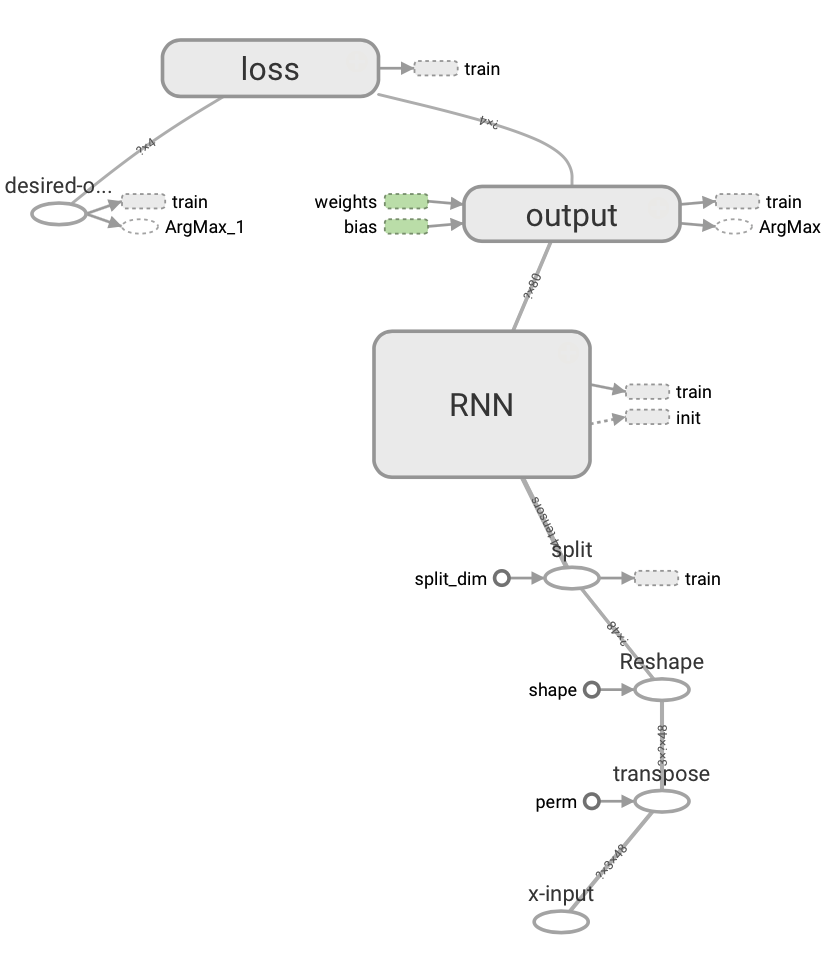
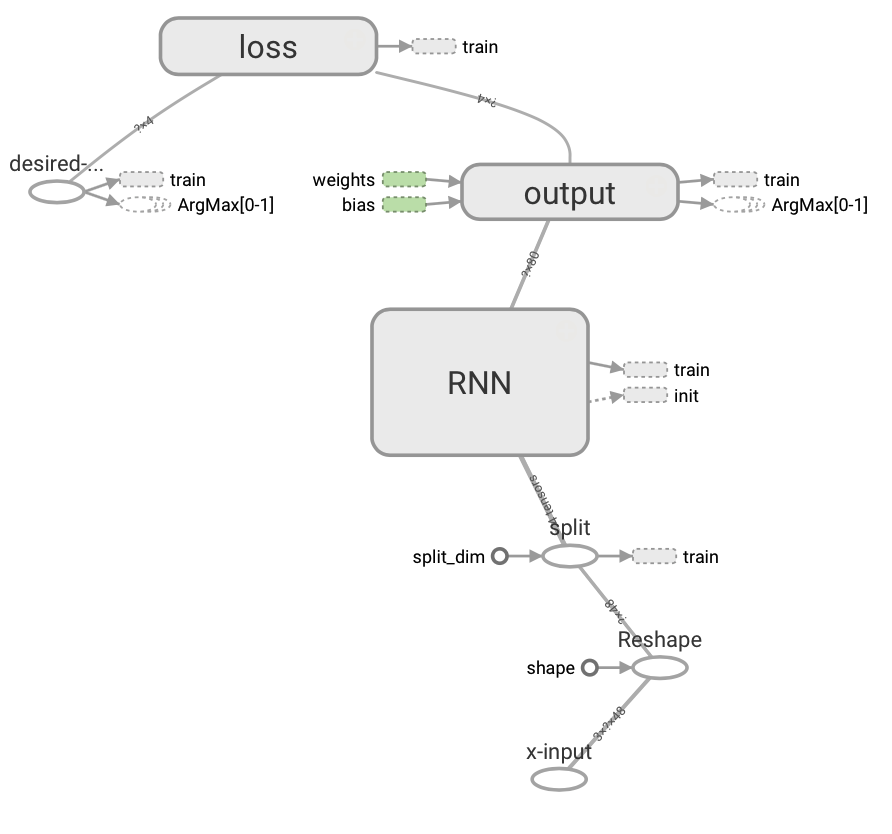
Update experiment readmes and add details to the RNN readme

Changed region(s): [[0.3623, 0.1559, 0.9964, 0.9976], [0.0, 0.0, 0.6039, 0.2806], [0.5737, 0.1247, 0.6643, 0.1559]]

diff --git a/experiments/rnn-gridworld/rnn-gridworld.py b/experiments/rnn-gridworld/rnn-gridworld.py
@@ -19,7 +19,7 @@ flags.DEFINE_float('final_epsilon', 0.1, 'Final epsilon value that epsilon will 
 # Network settings
 flags.DEFINE_integer('hidden', 80, 'Number of hidden neurons in each RNN layer.')
 flags.DEFINE_integer('rnn_layers', 2, 'Number of RNN layers.')
-flags.DEFINE_integer('timesteps', 3, 'Unfolded RNN sequence length.')
+flags.DEFINE_integer('sequence_length', 3, 'Unfolded RNN sequence length.')
 
 # Training settings
 flags.DEFINE_float('learning_rate', 0.001, 'Learning rate of the optimizer.')
@@ -33,7 +33,7 @@ flags.DEFINE_boolean('use_gpu', False, 'If it should run on GPU rather than CPU.
 flags.DEFINE_integer('random_seed', 123, 'Sets the random seed.')
 
 # Testing settings
-flags.DEFINE_boolean('run_test', True, 'If the final model should be tested')
+flags.DEFINE_boolean('run_test', True, 'If the final model should be tested.')
 flags.DEFINE_integer('test_runs', 100, 'Number of times to run the test.')
 flags.DEFINE_float('test_epsilon', 0.1, 'Epsilon to use on test run.')
 flags.DEFINE_integer('test_step_limit', 1000, 'Limits the number of steps in test to avoid badly performing agents running forever.')
@@ -52,23 +52,22 @@ else:
 input_size = 3 * settings.field_size * settings.field_size
 
 # Input
-x = tf.placeholder(tf.float32, shape=[None, settings.timesteps, input_size], name='x-input')
+x = tf.placeholder(tf.float32, shape=[settings.sequence_length, None, input_size], name='x-input')
 # Output
 y_ = tf.placeholder(tf.float32, shape=[None, 4], name='desired-output')
 
-W = tf.Variable(tf.random_uniform([settings.hidden, 4]))
-b = tf.Variable(tf.random_uniform([4]))
+W = tf.Variable(tf.random_uniform([settings.hidden, 4]), name='weights')
+b = tf.Variable(tf.random_uniform([4]), name='bias')
 
 def setup_rnn(x, weights, biases):
     with tf.device(device):
-        x_1 = tf.transpose(x, [1, 0, 2])
-        x_2 = tf.reshape(x_1, [-1, input_size])
-        x_3 = tf.split(0, settings.timesteps, x_2)
+        x_1 = tf.reshape(x, [-1, input_size])
+        x_2 = tf.split(0, settings.sequence_length, x_1)
 
         lstm_cell = tf.nn.rnn_cell.BasicLSTMCell(settings.hidden, forget_bias=1.0, state_is_tuple=True)
         lstm_cell = tf.nn.rnn_cell.MultiRNNCell([lstm_cell] * settings.rnn_layers, state_is_tuple=True)
 
-        outputs, state = tf.nn.rnn(lstm_cell, x_3, dtype=tf.float32)
+        outputs, state = tf.nn.rnn(lstm_cell, x_2, dtype=tf.float32)
 
         with tf.name_scope('output') as scope:
             y = tf.matmul(outputs[-1], W) + b
@@ -99,8 +98,8 @@ correct_prediction = tf.equal(tf.argmax(y,1), tf.argmax(y_,1))
 accuracy = tf.reduce_mean(tf.cast(correct_prediction, tf.float32))
 
 # Statistics summary writer
-summary_dir = '../../logs/gridworld-rnn-fieldsize{}-episodes{}-timesteps{}-rnnlayers{}-hidden{}-lr{}-{}/'.format(settings.field_size,
-    settings.episodes, settings.timesteps, settings.rnn_layers, settings.hidden, settings.learning_rate, settings.optimizer)
+summary_dir = '../../logs/rnn-gridworld-fieldsize{}-episodes{}-sequence{}-rnnlayers{}-hidden{}-lr{}-{}/'.format(settings.field_size,
+    settings.episodes, settings.sequence_length, settings.rnn_layers, settings.hidden, settings.learning_rate, settings.optimizer)
 summary_writer = tf.summary.FileWriter(summary_dir, sess.graph)
 stats = Stats(sess, summary_writer, 4)
 
@@ -110,7 +109,7 @@ epsilon = settings.initial_epsilon
 while settings.episodes > episode:
 	# Prepare environment for playing
     state = env.reset()
-    states = np.full((settings.timesteps, 1, input_size), state.reshape(1, input_size))
+    states = np.full((settings.sequence_length, 1, input_size), state.reshape(1, input_size))
 
     # Reset or increment values
     terminal = False
@@ -125,7 +124,7 @@ while settings.episodes > episode:
     while not terminal and step < settings.train_step_limit: 
         step += 1
         # Get the Q-values of the current state
-        q_values = sess.run(y, feed_dict={x: states.reshape(1,settings.timesteps, input_size)})
+        q_values = sess.run(y, feed_dict={x: states})
 
         # Save max(Q(s,a)) for stats
         q_max = np.max(q_values)
@@ -157,7 +156,7 @@ while settings.episodes > episode:
         new_states = np.stack(new_states_tuple)
 
        	# Get the new state's Q-values
-        q_values_new = sess.run(y, feed_dict={x: new_states.reshape(1, settings.timesteps, input_size)})
+        q_values_new = sess.run(y, feed_dict={x: new_states})
         # Get max(Q(s',a')) to update Q(s,a)
         q_max_new = np.max(q_values_new)
 
@@ -173,11 +172,11 @@ while settings.episodes > episode:
 
         # Run training
         _, loss = sess.run([train_step, obj_function],
-                    feed_dict={x: states.reshape(1,settings.timesteps, input_size),
+                    feed_dict={x: states,
                             y_: q_values})
 
         # Calculate accuracy
-        acc = sess.run(accuracy, feed_dict={x: states.reshape(1,settings.timesteps, input_size),
+        acc = sess.run(accuracy, feed_dict={x: states,
                                             y_: q_values})
 
         # Set the current state to the new state
@@ -211,7 +210,7 @@ if settings.run_test:
     rewards = []
     for n in range(settings.test_runs):
         state = env.reset()  
-        states = np.full((settings.timesteps, 1, input_size), state.reshape(1, input_size))      
+        states = np.full((settings.sequence_length, 1, input_size), state.reshape(1, input_size))      
         terminal = False
         step = 0
         q_max_arr = []
@@ -221,7 +220,7 @@ if settings.run_test:
         while not terminal and step < settings.test_step_limit: 
             step += 1
             
-            q_values = sess.run(y, feed_dict={x: states.reshape(1, settings.timesteps, input_size)})
+            q_values = sess.run(y, feed_dict={x: states})
             q_max = np.max(q_values)
 
             if (np.random.random() < settings.test_epsilon): 

diff --git a/experiments/nn-gridworld/nn-gridworld.py b/experiments/nn-gridworld/nn-gridworld.py
@@ -104,7 +104,7 @@ correct_prediction = tf.equal(tf.argmax(y,1), tf.argmax(y_,1))
 accuracy = tf.reduce_mean(tf.cast(correct_prediction, tf.float32))
 
 # Statistics summary writer
-summary_dir = '../../logs/gridworld-nn-fieldsize{}-episodes{}-hidden1_{}-hidden2_{}-lr{}-{}/'.format(settings.field_size,
+summary_dir = '../../logs/nn-gridworld-fieldsize{}-episodes{}-hidden1_{}-hidden2_{}-lr{}-{}/'.format(settings.field_size,
     settings.episodes, settings.hidden_l1, settings.hidden_l2, settings.learning_rate, settings.optimizer)
 summary_writer = tf.summary.FileWriter(summary_dir, sess.graph)
 stats = Stats(sess, summary_writer, 4)

diff --git a/experiments/q-gridworld/q-gridworld.py b/experiments/q-gridworld/q-gridworld.py
@@ -66,7 +66,7 @@ while settings.episodes > episode:
 
         # Anneal epsilon
         if epsilon > settings.final_epsilon: 
-            epsilon = settings.initial_epsilon - (3*episode / float(settings.episodes))
+            epsilon = settings.initial_epsilon - (2*episode / float(settings.episodes))
         else: 
             # Final epsilon reached, stop annealing.
             epsilon = settings.final_epsilon

diff --git a/experiments/rnn-gridworld/README.md b/experiments/rnn-gridworld/README.md
@@ -5,21 +5,92 @@
 </p>
 
 
+## Parameters
+The customizable parameters of this experiment - and their default values - are as follows:
+#### Q Learning settings
+* ```episodes ``` - ```100``` -  Number of minibatches to run the training on. 
+* ```gamma``` -  ```0.99```- Discount (ɣ) to use when Q-value is updated. 
+* ```initial_epsilon``` - ```1.0``` - Initial epsilon value that epsilon will be annealed from. 
+* ```final_epsilon``` - ```0.1``` - Final epsilon value that epsilon will be annealed to. 
+
+#### Network settings
+* ```hidden``` -  ```80``` -  Number of hidden neurons in each RNN layer..
+* ```rnn_layers``` - ```2``` - Number of RNN layers.
+* ```sequence_length``` - ```3``` - Unfolded RNN sequence length.
+
+#### Training settings
+* ```learning_rate``` - ```0.001``` - Learning rate of the optimizer.
+* ```optimizer``` -  ```rmsprop``` -  If another optimizer should be used [adam, gradientdescent, rmsprop]. Defaults to gradient descent.
+* ```train_step_limit``` - ```300``` -  Limits the number of steps in training to avoid badly performing agents running forever.
+
+#### General settings
+* ```field_size``` -  ```4``` - Determines width and height of the Gridworld field.
+* ```status_update``` -  ```10``` - How often to print an status update.
+* ```use_gpu``` -  ```False``` - If it should run on GPU rather than CPU.
+* ```random_seed``` - ```123``` -  Number of minibatches to run the training on.
+
+#### Testing settings
+* ```run_test``` - ```True``` - If the final model should be tested.
+* ```test_runs``` - ```100``` - Number of times to run the test.
+* ```test_epsilon``` - ```0.1``` - Epsilon to use on test run.
+* ```test_step_limit``` - ```1000``` -  Limits the number of steps in test to avoid badly performing agents running forever.
+
+
 ## Network 
 The network in this experiment has a customizable number of hidden layers and customizable numbers of LSTM-cells in each hidden layer.
 
 ```
-input_size = 3*field_size*field_size
+input_size = 3 * field_size * field_size
 action_size = 4 (up, down, left, right)
 ```
 
 
-| Input          | Hidden Layers| Cells/Layer | Timesteps | Output          |
-|----------------|--------------|-------------|-----------|-----------------|
-|```input_size```| 2 [C]        |80 [C]       |  3 [C]    |```action_size```|
+| Input          | Hidden Layers| Cells/Layer | Sequence length | Output          |
+|:--------------:|:------------:|:-----------:|:---------------:|:---------------:|
+|```input_size```| 2 [C]        |80 [C]       |  3 [C]          |```action_size```|
 
 [C] - Customizable
 
 ## Performance
 
+<p align="center">
+  <img src="../../images/plots/rnn-gridworld-plot1.png", width="70%"/>
+  <img src="../../images/plots/rnn-gridworld-plot2.png", width="70%"/>
+</p>
+
+The plots above show the agents training progress running with all parameters set to their default values.
+
+As you can see in the plot, something happend to the performance of the agent just after 600 episodes. From that point and beyond, it really got the gist of it and performed really well thereafter. The result of running 100 test runs with the fully trained agent can be seen in the table below.
+
+### Comparing NN-Gridworld with RNN-Gridworld
+
+So how does [NN-Gridworld](../nn-gridworld) and RNN-Gridworld stand against each other?
+To test this, I had both networks run on a 10x10 grid (```field_size = 10```), meaning that the input vector to the network now was ```3 * 10 * 10 ⟶ [1, 300]```, which is really large. However, the RNN still managed to learn how to play, and fairly quickly so!
+You can compare them in the plow below, where the training progress of the **<span style="color:#FD704B">RNN</span>** and **<span style="color:#1BACC0">NN</span>** network (with default parameters except ```field_size```) are plotted together.
+
+
+<p align="center">
+  <img src="../../images/plots/rnn-nn-10-plot.png", width="70%"/>
+</p>
+
+The test performance of the RNN then shows the following results, which is still quiet good!
+
+|            | Average  |Max  | Min |
+|:-----------|:--------:|:---:|:---:|
+| **Steps**  | 2.39	    | 7   | 1   |
+| **Rewards**| 0.53     | 1   |0.13 |
+
+### Comparing RNN-Gridworld with Q-Gridworld
+
+Let's go even further! This time, we're comparing the performance between the RNN-Gridworld to  [Q-Gridworld](../q-gridworld). They both ran on a 15x15 grid (```field_size = 15```), where the RNN operated with an input vector of size ```3 * 15 * 15 ⟶ [1, 135]```. All parameters were set to default values except ```field_size``` of them both and ```episodes```of the Q-Gridworld, which was set to ```1000```.
+
+As you can see in the plot, showing the training progress of the **<span style="color:#FD704B">RNN</span>** and **<span style="color:#1BACC0">Q</span>**, they both still manage to learn how to play. Actually, looking the test results scores (**Avg. steps** and **Avg. rewards**), it appears that the RNN-Gridworld marginally beats the Q-Gridworld.
+<p align="center">
+  <img src="../../images/plots/rnn-q-15-plot.png", width="70%"/>
+</p>
+
+|            | **RNN**   |**Q**  |
+|:-----------|:--------:|:-----:|
+| **Steps**  | 14.98    | 14.85 |
+| **Rewards**| 0.10     | 0.12   |
 

diff --git a/README.md b/README.md
@@ -1,6 +1,10 @@
 # Machine Learning in TensorFlow
 
-The purpose of this repo is to offer anyone who wants to get started with using [TensorFlow](https://www.tensorflow.org) a number of examples to get a kickstart with. They aren't necessarily optimized on solving the problem, since that isn't the purpose, but rather serve as a solid starting ground to play around with for your own experiments and optimizations!
+The purpose of this repository is to offer anyone who wants to get started with using [TensorFlow](https://www.tensorflow.org)a number of experiments, where the same problem is solved through different techniques, showcasing different methods of approaching the same problem. 
+
+I believe that the best way of doing this is to have some consistensy in how the code is written, so that the curious reader can focus on how the techniques differ rather than comparing the code standard of two different programmers.
+
+The implementations and parameters aren't necessarily optimized to solve the problem, since that isn't the purpose, but rather serve as a solid starting ground to play around with for your own experiments and optimizations!
 
 It is currently under construction, but if you have any feedback, suggestions or comments - I'd gladly hear it!
 

diff --git a/experiments/nn-gridworld/README.md b/experiments/nn-gridworld/README.md
@@ -19,13 +19,11 @@ Given the variables ```input_size``` and ```action_size```, the network structur
 * ```input_size = 3 * field_size * field_size```
 * ```action_size = 4 (up, down, left, right)```
 
-<center>
 
 | Input          | Hidden L1| Hidden L2  | Output          |
 |:--------------:|:--------:|:----------:|:---------------:|
 |```input_size```| 80 [c]   | 80 [c]     |```action_size```|
 
-</center>
 [c] - Customizable
 
 ## Parameters
